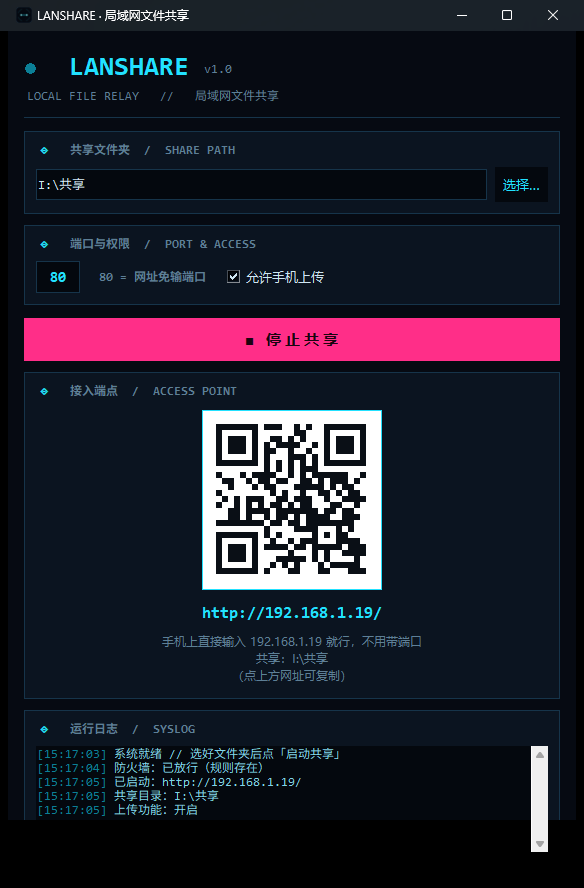
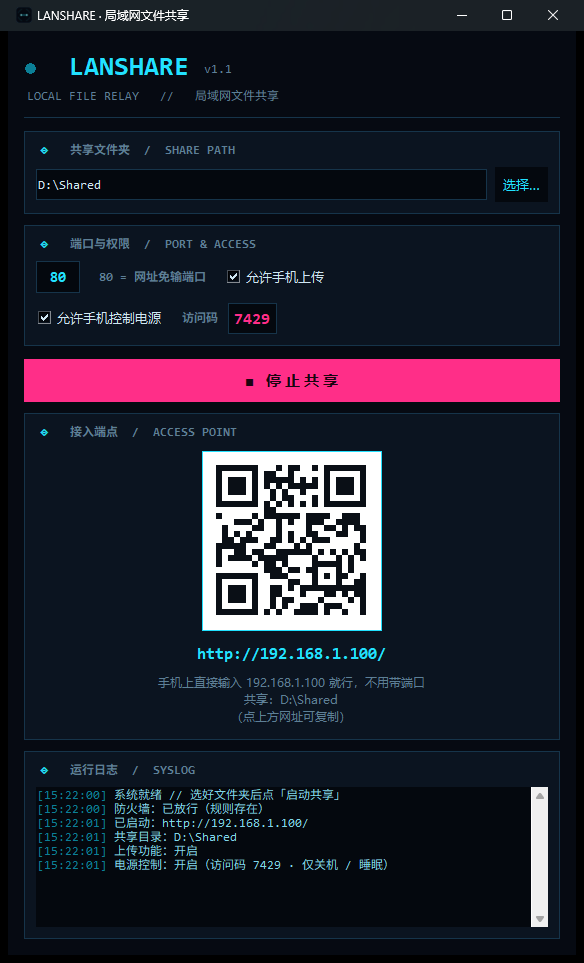
chore: 界面截图更新至 v1.1，示例信息统一为通用值
- docs/screenshot.png 换成 v1.1 版界面（含「允许手机控制电源」开关那一行），
  图中共享路径改用通用示例，不再显示本机磁盘路径
- README 里的示例网址同步成与截图一致的通用地址
- ShareHandler.server_version 由 LanShare/1.0 更正为 LanShare/1.1

diff --git a/README.md b/README.md
@@ -13,7 +13,7 @@
 | 功能 | 说明 |
 |:--|:--|
 | 扫码访问 | 窗口里直接显示二维码，手机扫一下就进来 |
-| 网址免端口 | 默认监听 80，手机上直接输 `http://192.168.1.23`，不用打冒号 |
+| 网址免端口 | 默认监听 80，手机上直接输 `http://192.168.1.100`，不用打冒号 |
 | 浏览与下载 | 目录列表带文件类型图标、大小、修改时间，点开即看 |
 | 断点续传 | 支持 HTTP `Range`，手机上拖视频进度条不会失败 |
 | 双向传输 | 打开「允许上传」后，手机可多选文件传到电脑，重名自动加序号 |
